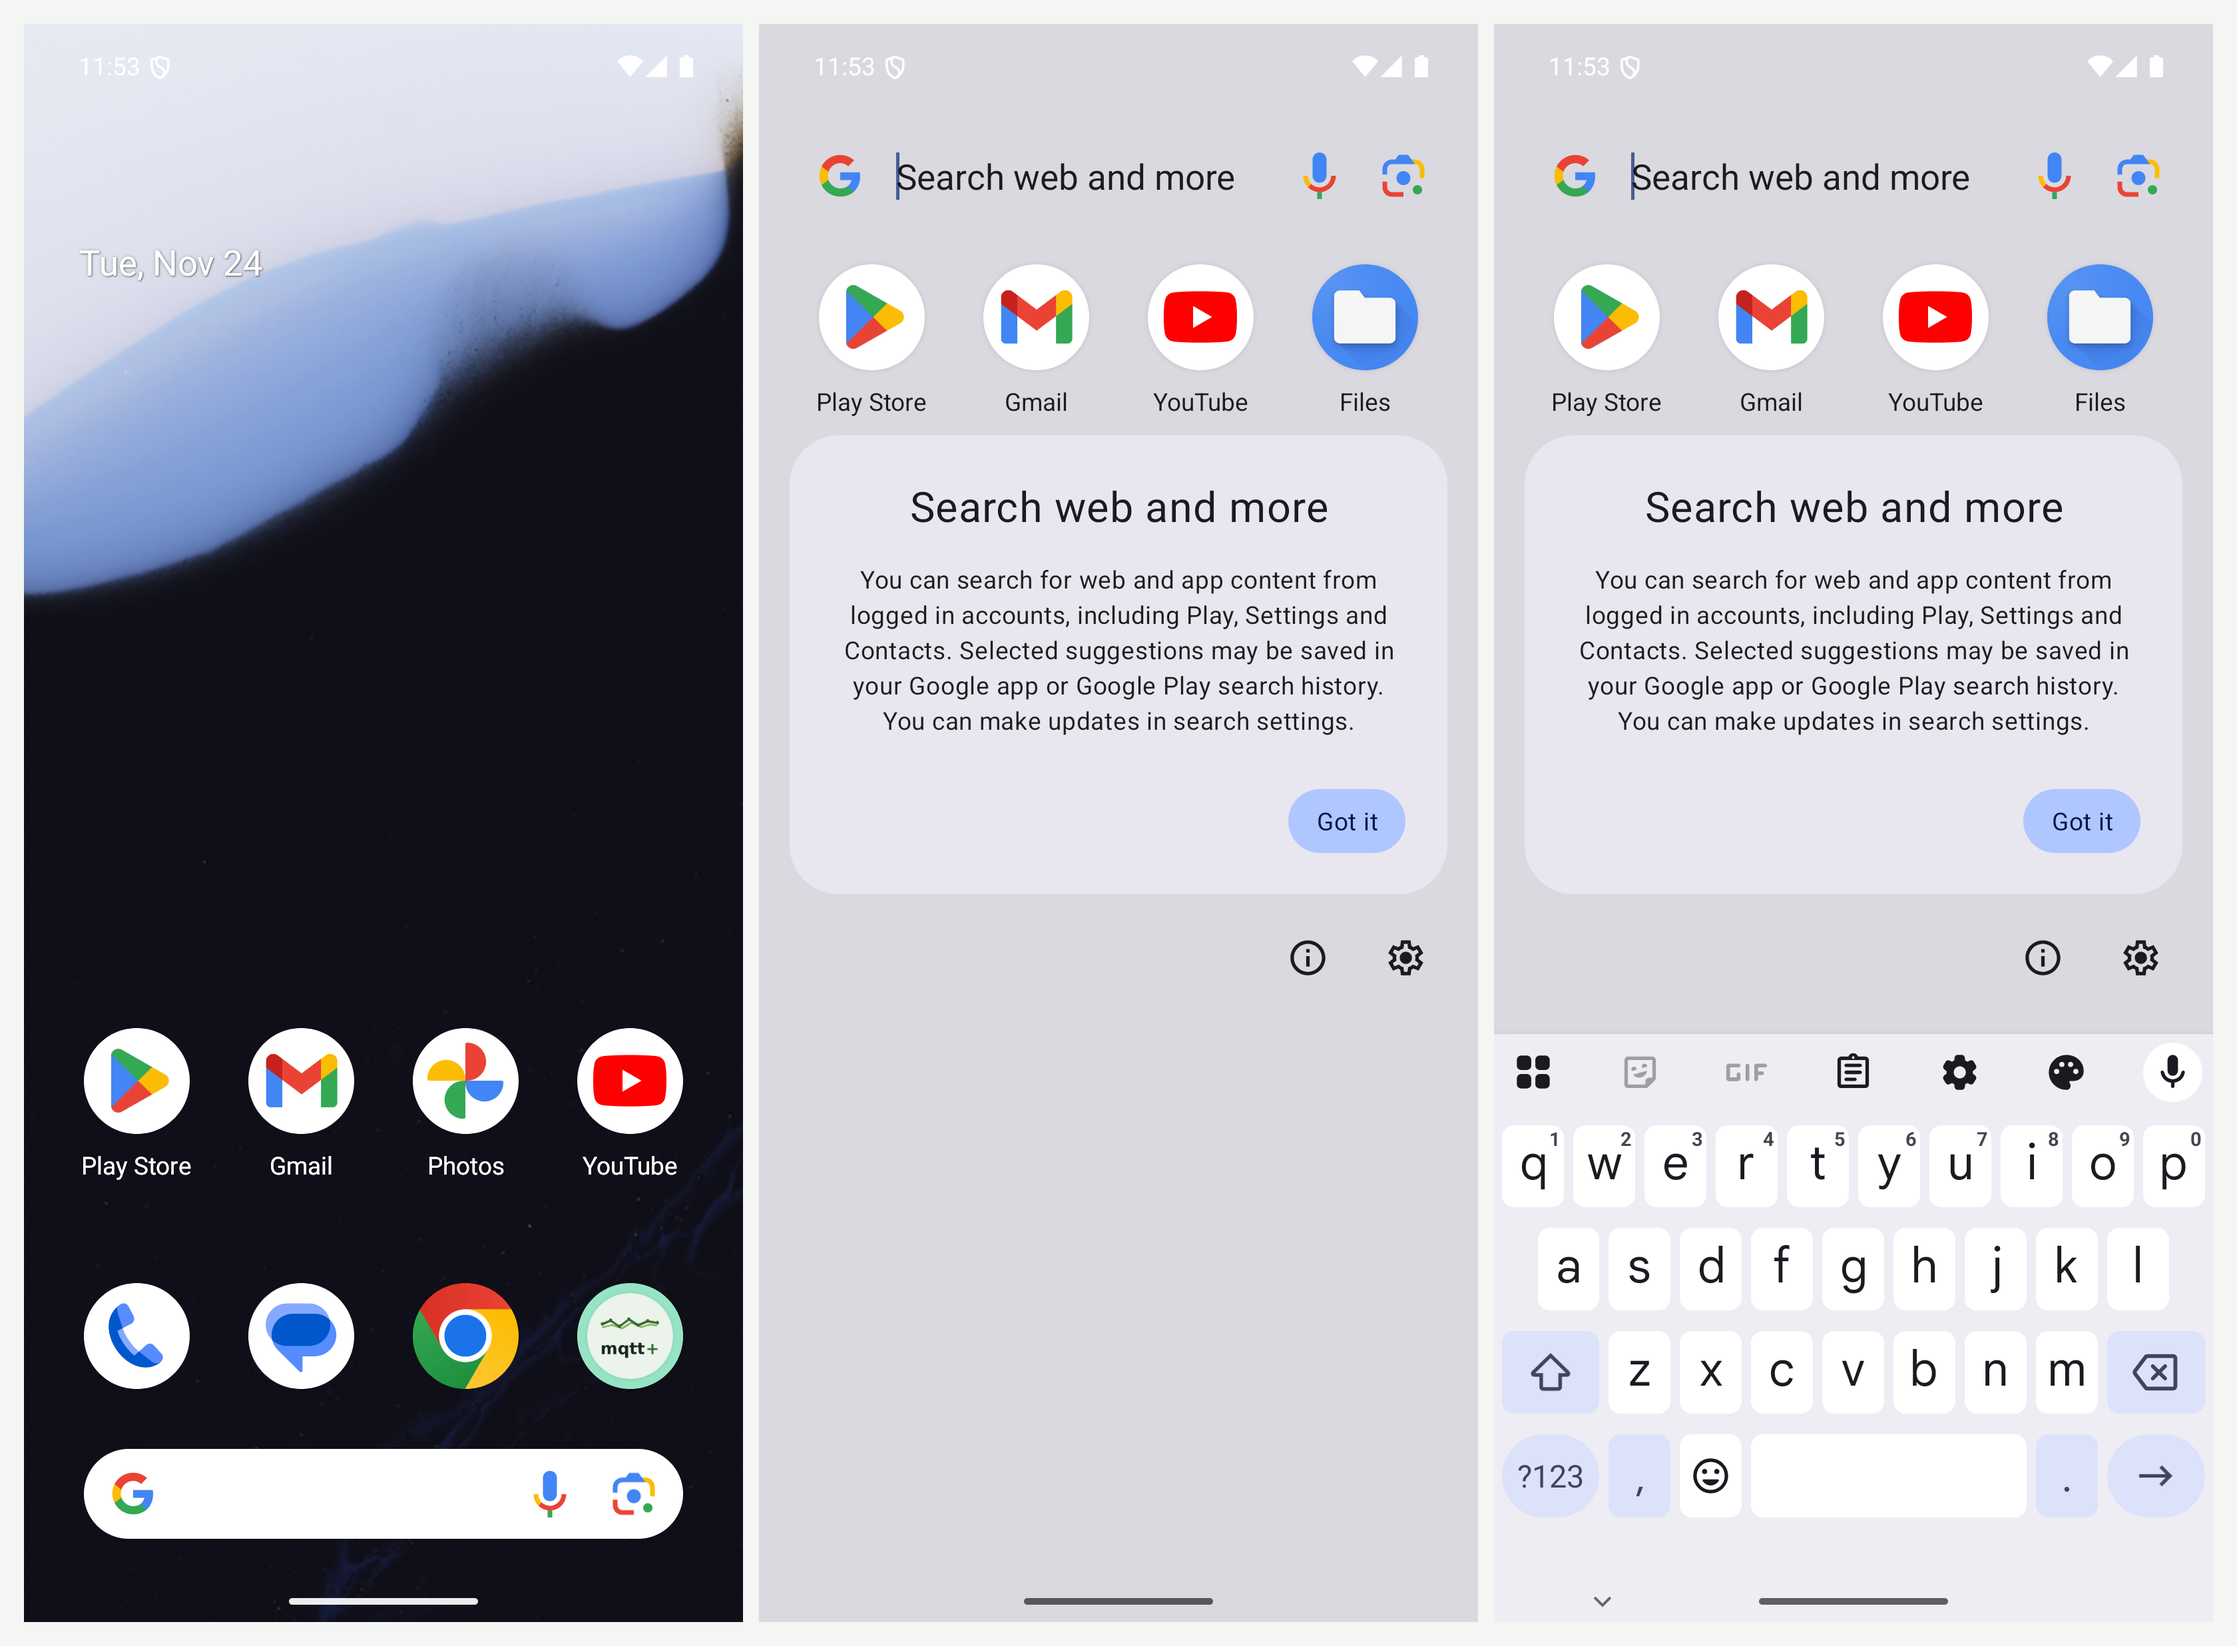
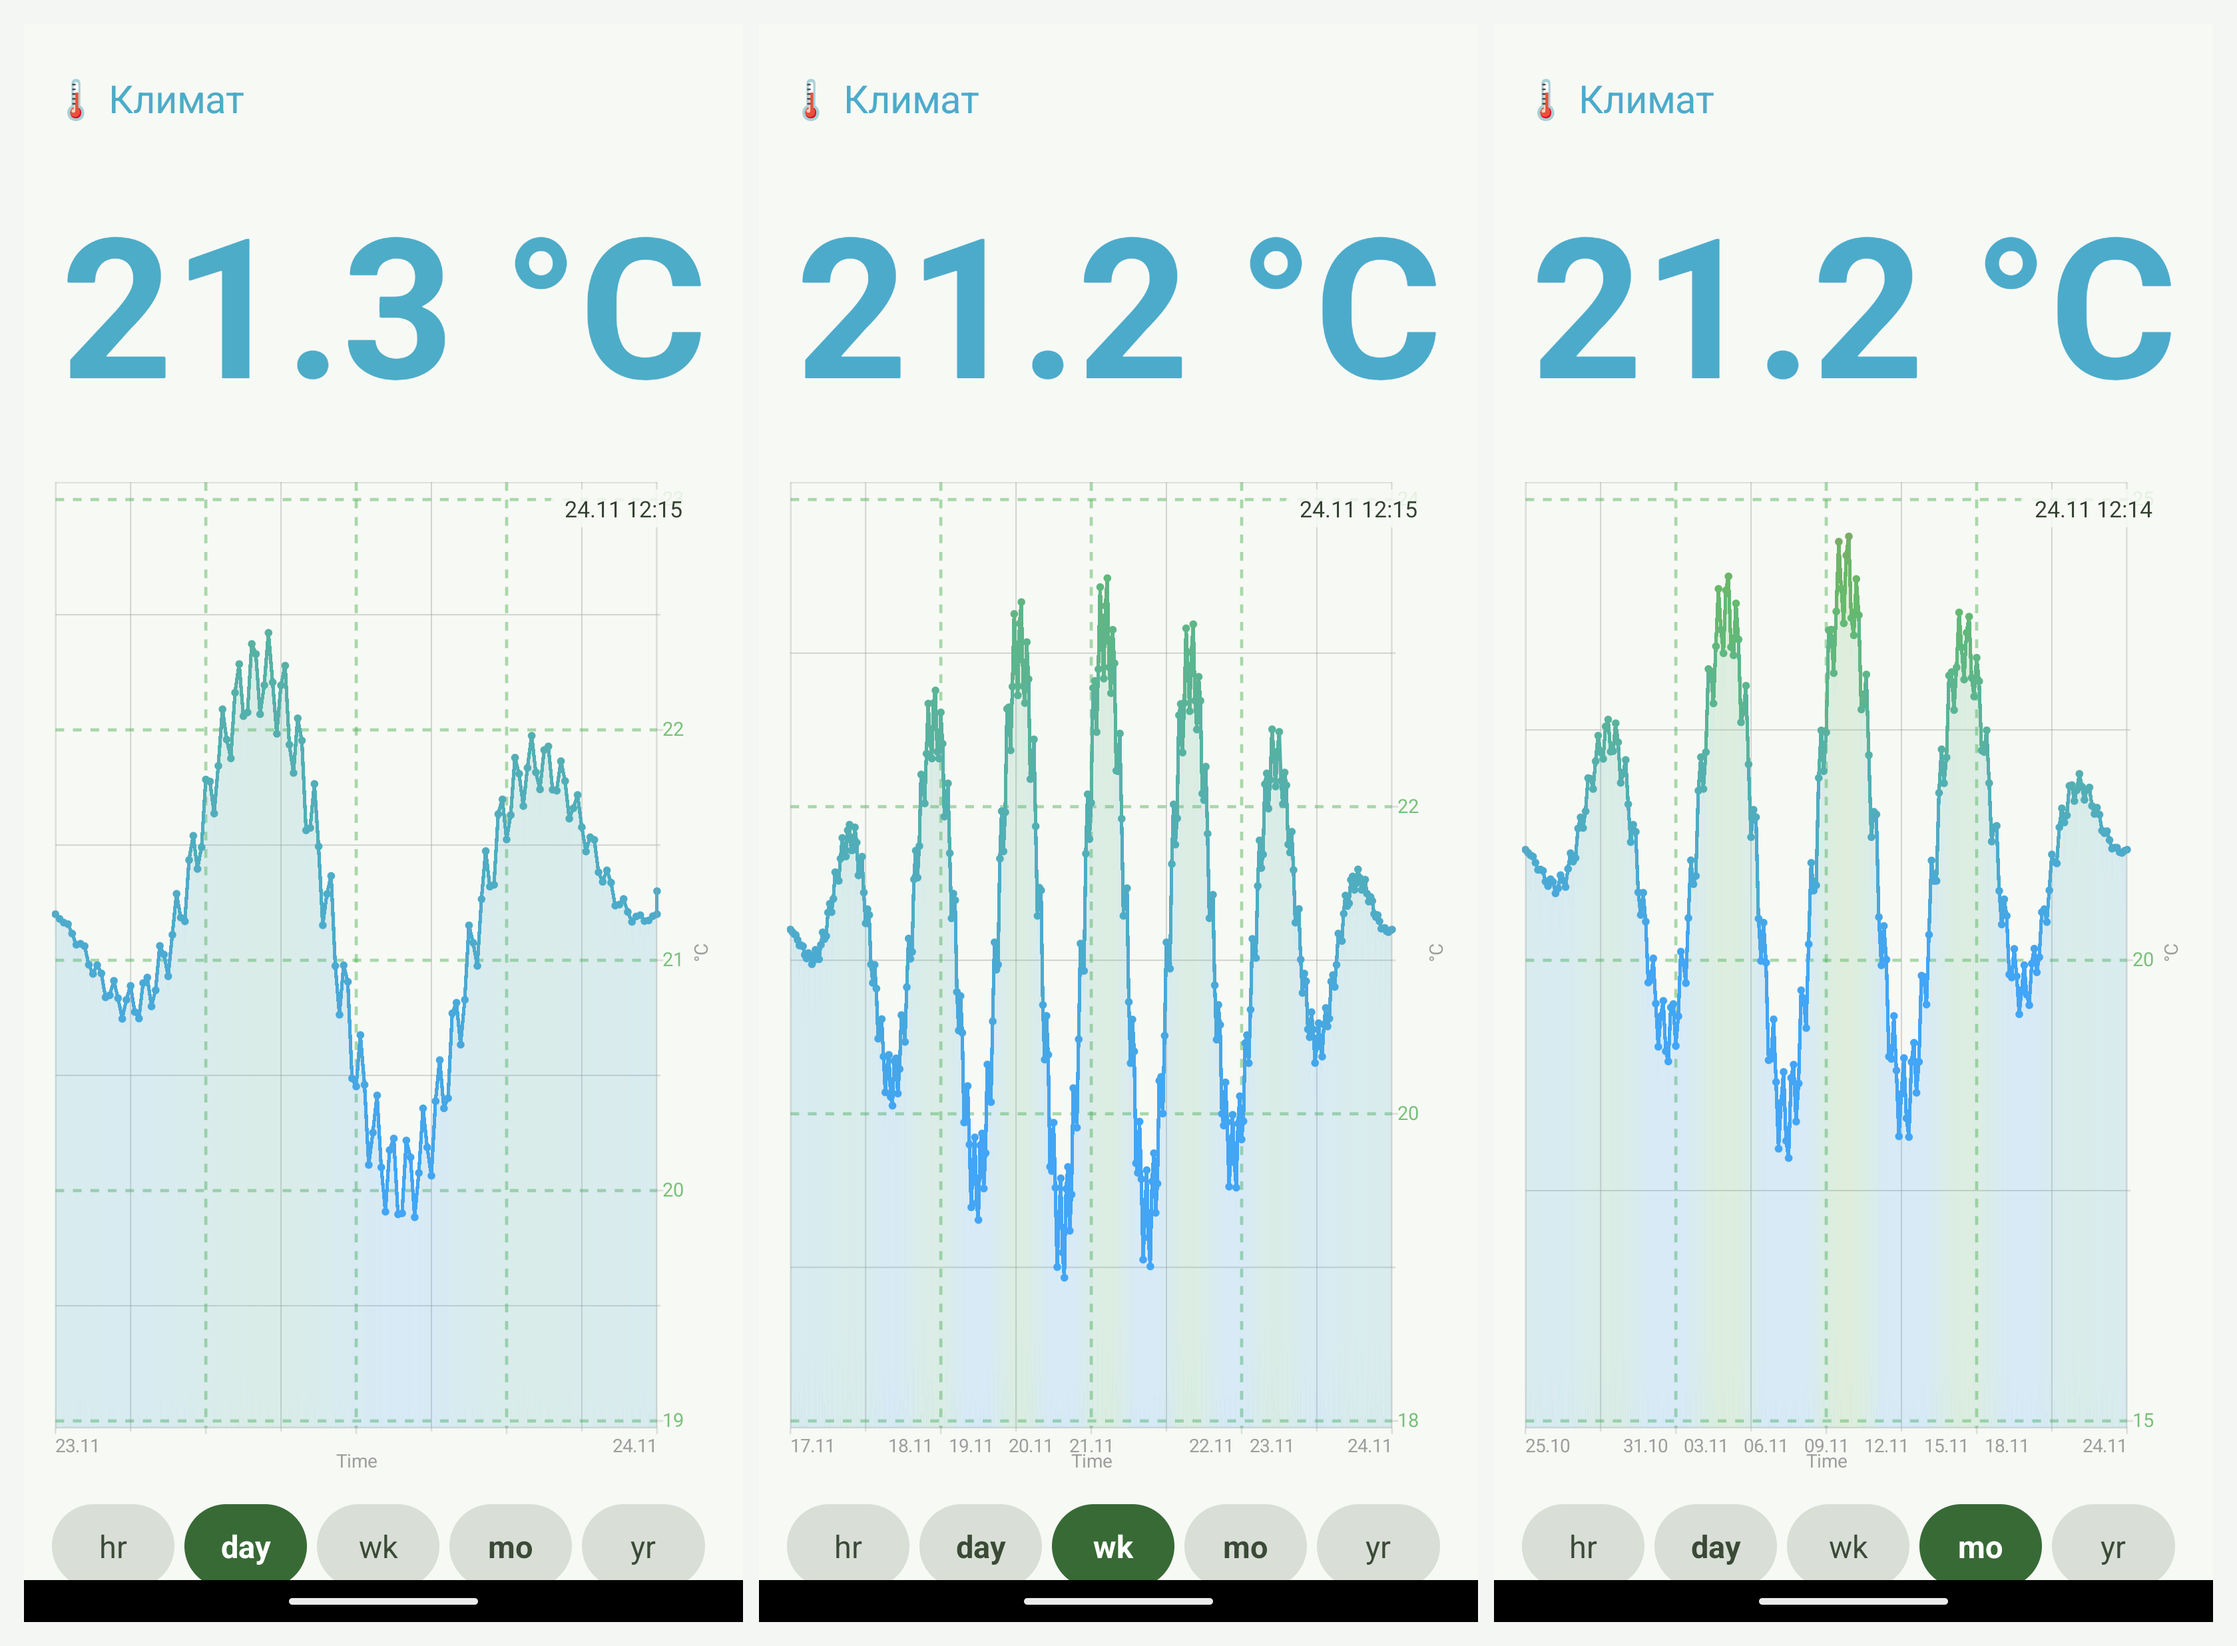
README: триада полноэкранных кадров переснята (были кадры лаунчера), галерея — таблица 2×2 вертикальных кадров, широкие кадры полноширинные

diff --git a/README.md b/README.md
@@ -18,80 +18,16 @@ MQTT+ Panel превращает Android-смартфон или планшет 
 | **Демо-дашборд при первом запуске: 11 типов виджетов с живыми данными** | **Тёмная тема** |
 | ![Заблокированная раскладка: плотная сетка, только данные](screenshots/lock-mode.png) | ![Настройки обмена конфигом через MQTT](screenshots/mqtt-share.png) |
 | **Заблокированная раскладка: плотная сетка, только данные** | **Настройки обмена конфигом через MQTT** |
-| ![Крестовина: время и значение под пальцем](screenshots/crosshair.png) | ![Полноэкранный график: периоды переключаются чипами 1d → 1w → 1m](screenshots/fullscreen-chips.png) |
-| **Крестовина: время и значение под пальцем** | **Полноэкранный график: периоды переключаются чипами 1d → 1w → 1m** |
 
-## Возможности
+<p align="center">
+  <img src="screenshots/crosshair.png" width="38%"><br>
+  <b>Крестовина: время и значение под пальцем</b>
+</p>
 
-### Подключения
-
-- **Несколько брокеров параллельно** — каждое включённое подключение живёт своим клиентом
-  со своими подписками и светодиодом статуса.
-- **TCP, SSL/TLS, WebSocket** (`ws://`/`wss://`), логин/пароль, Keep Alive, QoS 0–2, Retained.
-- **Стабильный Client ID** — два устройства, развёрнутые из одной резервной копии, получают
-  разные ID и не выбивают друг друга на брокере.
-- **Префикс тем устройства** (например `antonh2o/tuwa3`) — ограничивает сканер топиков этим
-  устройством; для конфигов, импортированных из IoT MQTT Panel, определяется автоматически.
-- **Сканер топиков** — временная подписка собирает дерево брокера, виджеты создаются пачкой,
-  тип подбирается по содержимому; JSON-темы раскрываются в отдельные датчики.
-
-### Виджеты
-
-11 типов: Значение, Переключатель, Кнопка (в т.ч. «payload при отпускании» с автоповтором),
-Слайдер (шаг, вертикальный), Светодиод, Текст, График, **Мультиграфик** (несколько топиков
-на одном графике, подписи линий с текущими значениями) и Прогресс в трёх вариантах
-(вертикальный, горизонтальный, круговой).
-
-- **Динамический цвет** — три опорных цвета по диапазону Мин/Макс: значение, линия графика
-  и полоса прогресса красятся цветом своего значения.
-- **Время обновления** на каждой карточке (у Народмона — время измерения платформы).
-- **Блокировка дашборда** — только данные, без меню и ручек; раскладка переживает перезапуск.
-
-### Графики
-
-- Живые точки из MQTT в реальном времени + история за **сутки / неделю / месяц / год** —
-  чипами прямо на карточке и в полноэкранном режиме.
-- **Полный экран** по двойному тапу: крупное значение, крестовина (время и значение под
-  пальцем), пинч-масштаб по времени, чипы периодов.
-- Демо-графики поддерживают те же чипы периодов — история синтезируется приложением.
-
-### История из Grafana
-
-MQTT-подключение связывается с вашим Grafana (InfluxDB через `/api/ds/query`, Grafana 8+):
-живые точки остаются из MQTT, история за периоды подтягивается из базы. Настройка — один раз
-в редакторе подключения. Пошаговая инструкция — в разделе
-[«Настройка Grafana»](#настройка-grafana-история-графиков).
-
-### Народный мониторинг
-
-Датчики [narodmon.ru](https://narodmon.ru) показываются наряду с MQTT: аккаунт подключается
-как отдельное «подключение», датчики выбираются из списка своих устройств, тип карточки —
-любой (значение, график, прогресс, текст). Нужен свой бесплатный API-ключ narodmon.ru
-(в приложении ключа нет; лимит платформы считается на ключ и IP).
-
-### Конфигурация
-
-- **Импорт/экспорт** — файл или Яндекс Диск; импорт конфигураций стороннего дашборда
-  (IoT MQTT Panel, старый и новый формат).
-- **Резервная копия на Яндекс Диск** — OAuth, автоматический выбор папки, восстановление.
-- **Обмен по MQTT** — конфиг дашборда публикуется на брокере (retained-сообщение) и
-  импортируется на другом устройстве в два тапа: ⋮ → «Настройки через MQTT» + пункты
-  «Из MQTT» / «В MQTT» в диалогах импорта и экспорта. Шифрование AES-GCM с паролем
-  или «раскладка без секретов» (пароли и API-ключи вычищаются); топик per-device
-  `mqttpanel/<ID>/share/config` или общий; публикация вручную кнопкой или автоматически
-  при изменении конфига.
-- **Кэш последних данных** — значения и истории показываются мгновенно при открытии.
-
-### Обновление из GitHub
-
-Меню ⋮ → «Проверить обновления», плюс приложение само проверяет новую версию при каждом
-запуске и предлагает обновиться: скачивание с индикатором прогресса и кнопкой «Отмена».
-
-### Прочее
-
-Foreground-сервис с автопереподключением (статус и таймер в строке состояния), Material 3,
-светлая/тёмная/системная тема, русский и английский интерфейс, журнал диагностики с отправкой
-на отладку.
+<p align="center">
+  <img src="screenshots/fullscreen-chips.png" width="90%"><br>
+  <b>Полноэкранный график: периоды переключаются чипами 1d → 1w → 1m</b>
+</p>
 
 ## Первый запуск
 
